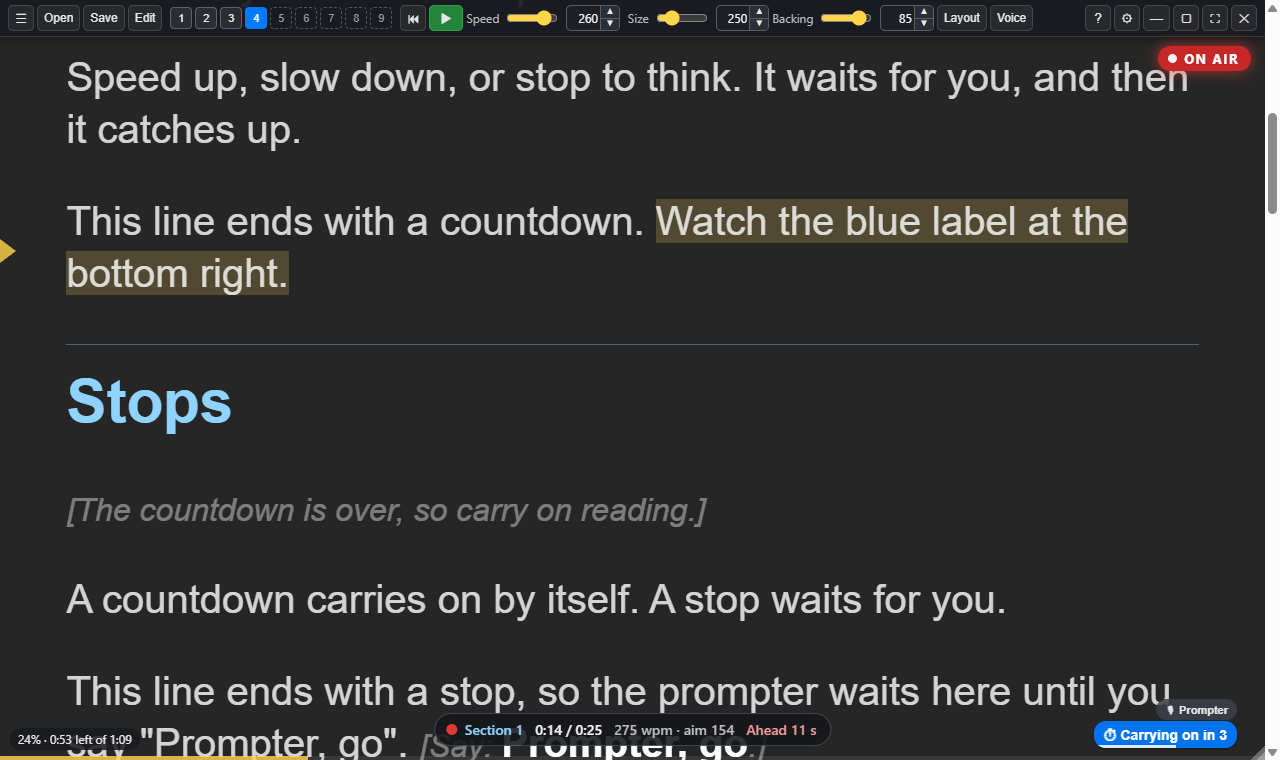
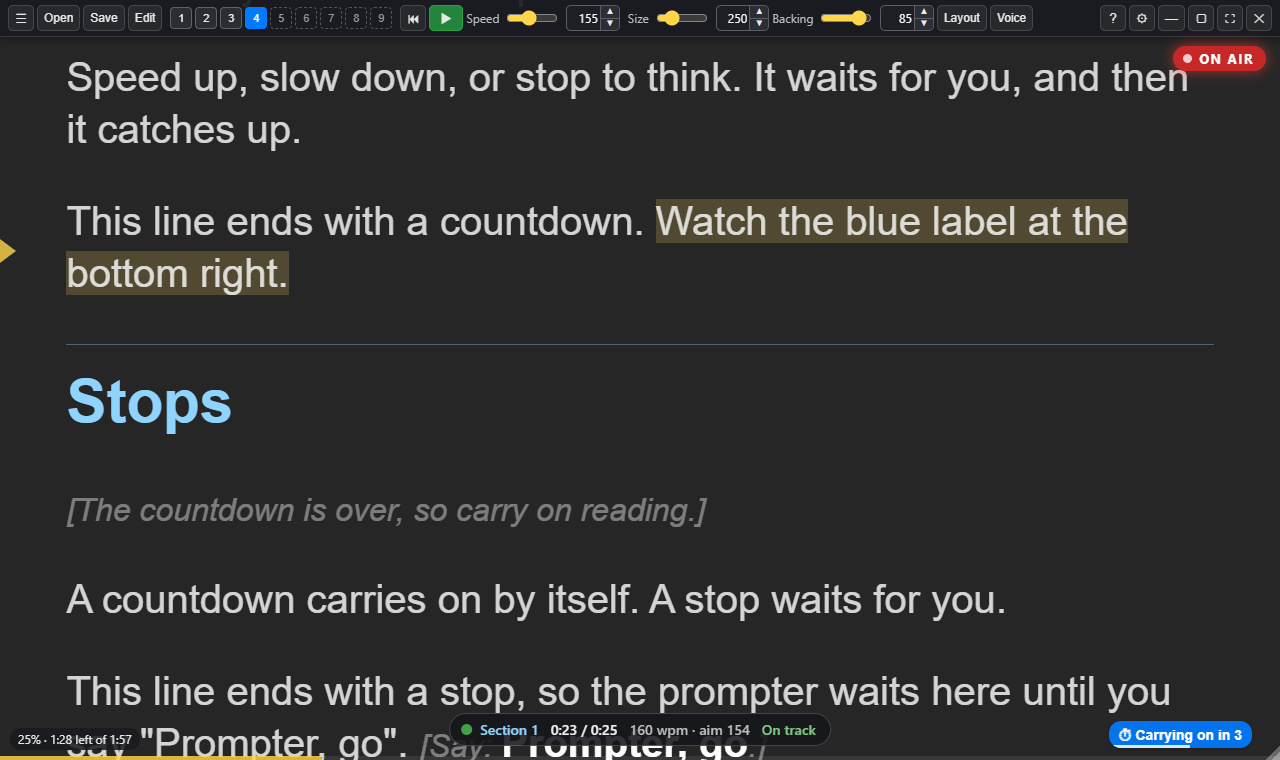
No scroll bar on the script, in the prompter or the control window
The progress bar and time left show the position; wheel, keys, sections and click-to-line still move it. Screenshots retaken without the bar. Guide pages don't mention the scroll bar.

[docs-skip: no guide page describes the scroll bar; change log and screenshots updated]

Claude-Session: https://claude.ai/code/session_01RExBhv5sG83zRt8AwjwG1H

diff --git a/src/client/teleprompter.css b/src/client/teleprompter.css
@@ -1313,6 +1313,14 @@ body.editing #cb-progress-text {
 	scrollbar-width: none;
 }
 
+/* The script scrolls without a scroll bar: the progress bar shows where you are. */
+html,
+body {
+	scrollbar-width: none;
+}
+
+html::-webkit-scrollbar,
+body::-webkit-scrollbar,
 .settings-content::-webkit-scrollbar,
 .panel::-webkit-scrollbar,
 .help-content::-webkit-scrollbar,

diff --git a/src/client/control.css b/src/client/control.css
@@ -145,6 +145,12 @@ body.running #state-dot {
   cursor: pointer;
   /* Room so the first and last lines can reach the reading line. */
   scroll-padding: 0;
+  /* No scroll bar: it follows the prompter, and a click moves it. */
+  scrollbar-width: none;
+}
+
+#preview::-webkit-scrollbar {
+  display: none;
 }
 
 #md {

diff --git a/readme.md b/readme.md
@@ -201,6 +201,7 @@ Planned features and their order are in [ROADMAP.md](ROADMAP.md).
 
 ### Next release
 
+- **No scroll bar on the script**, in the prompter or the control window. The progress bar and time left show where you are; the mouse wheel, arrow keys, sections and clicking a line in the control window still move it
 - **Working with AI**, a new page in the user guide (Help > User Guide): how your AI writes the script and its directions, runs the prompter through the local API, and takes the take log for the edit. The readme, feature list and Help > About now lead with it
 - Help > About lists one feature per line, and text in the menus, panels and dialogs no longer leaves a single word hanging on the last line
 - **Slate and sync mark** (Settings > Scrolling, "Slate at the start of each take"): before each take the screen flashes white and beeps, then shows the section and take number for a second. The take log records when each slate went off (the first is time 0), so every take can be lined up with the recording; no clap needed. It shows when you start scrolling, carry on from a `{stop}`, start voice scrolling, or say "Prompter, again". Choose flash and beep, flash only, or off (the default)
